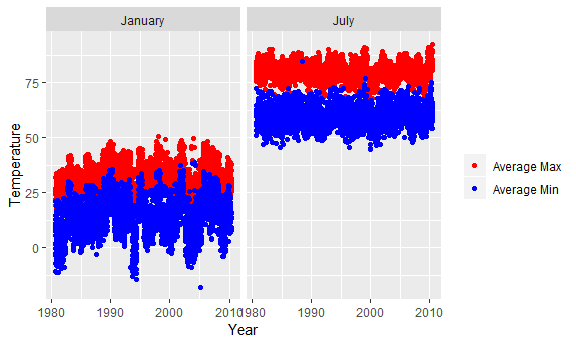
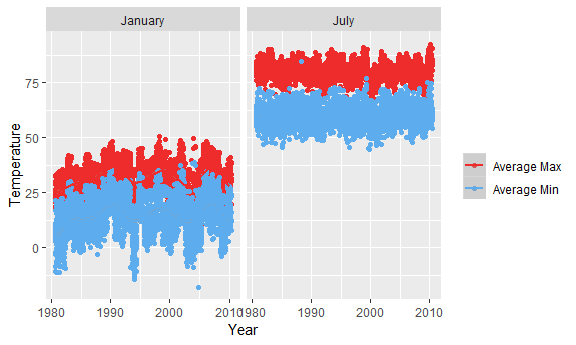
Problem 3 answered (partially)

diff --git a/p8105_hw3_at2710.md b/p8105_hw3_at2710.md
@@ -76,8 +76,6 @@ health_overall %>% filter(year %in% c(2002, 2006, 2010) &
 For each year and state, compute the average proportion in each response category (taking the average across locations in a state).
 
 ``` r
-# health_overall %>% group_by(year, state, response) %>% summarise(mean_proportion = mean(data_value, na.rm = TRUE)) %>% kable(digits = 2)
-
 health_overall %>% group_by(year, state, response) %>% summarise(mean_proportion = mean(data_value, na.rm = TRUE)) %>% spread(key = response, value = mean_proportion) %>% kable(digits = 2)
 ```
 
@@ -628,7 +626,7 @@ Problem 3
 
 This problem uses the NY NOAA data. DO NOT include this dataset in your local data directory; instead, load the data from the p8105.datasets package (it’s called ny\_noaa).
 
-**Answer**: This is the weather data, with 2595176 observations, which consists of daily information on precipition, snow and temperature from various locations. It's in a long format and hasn't been tidied since there are rows with no information on the weather. Thus we removed those observations with no data (72278 rows) and ended up with the final dataset with 2522898 observations. The data comes from 747 unique weather stations in NY from year 1981 to 2010. There are a lot of missing data observed in the dataset particularly the tmax and tmin (42%). Another variable with dubious input is snow given there is one record, dated 2005-06-15, that shows the amount of snow in negative (-0.511811).
+**Answer**: This is the weather data, with 2595176 observations, which consists of daily information on precipition, snow and temperature from various locations. It's in a long format and hasn't been tidied since there are rows with no information on the weather. Thus we removed those observations with no data (72278 rows) and ended up with the final dataset with 2522898 observations. The data comes from 747 unique weather stations in NY from year 1981 to 2010. There are a lot of missing data observed in the dataset particularly the tmax and tmin (42%). Another variable with dubious input is snow given there is one record, dated 2005-06-15, that shows the amount of snow in negative (-0.5).
 
 For snowfall, what are the most commonly observed values? Why?
 
@@ -638,15 +636,38 @@ Make a two-panel plot showing the average temperature in January and in July in 
 
 ``` r
 cleaned_dat %>% group_by(month, year, id) %>% summarise(tmax_avg = mean(tmax, na.rm = TRUE),
-  tmin_avg = mean(tmin, na.rm = TRUE)) %>% filter(month %in% c(1, 7)) %>% mutate(month_name = month.name[month]) %>% gather(key = max_min, value = temp, tmax_avg:tmin_avg) %>% ggplot(aes(x = year, y = temp, color = max_min)) + geom_jitter() +  facet_grid(. ~ month_name) + ylab('Temperature') + xlab('Year') + scale_color_manual(
+  tmin_avg = mean(tmin, na.rm = TRUE)) %>% filter(month %in% c(1, 7)) %>% mutate(month_name = month.name[month]) %>% gather(key = max_min, value = temp, tmax_avg:tmin_avg) %>% ggplot(aes(x = year, y = temp, color = max_min)) + geom_jitter() + geom_smooth() +  facet_grid(. ~ month_name) + ylab('Temperature') + xlab('Year') + scale_color_manual(
   name = "",
   labels = c("Average Max",
   "Average Min"),
-  values = c('tmax_avg' = 'red', 'tmin_avg' = 'blue')
+  values = c('tmax_avg' = 'firebrick2', 'tmin_avg' = 'steelblue2')
   )
 ```
 
+    ## `geom_smooth()` using method = 'gam' and formula 'y ~ s(x, bs = "cs")'
+
 <img src="p8105_hw3_at2710_files/figure-markdown_github/unnamed-chunk-9-1.png" width="90%" />
+
+``` r
+cleaned_dat %>% group_by(month, year, id) %>% summarise(tmax_avg = mean(tmax, na.rm = TRUE), tmin_avg = mean(tmin, na.rm = TRUE)) %>% filter(month == 1 & year == 1994) %>% arrange(tmin_avg) %>% ungroup()
+```
+
+    ## # A tibble: 222 x 5
+    ##    month  year id          tmax_avg tmin_avg
+    ##    <dbl> <dbl> <chr>          <dbl>    <dbl>
+    ##  1     1  1994 USC00303346     15.3   -14.4 
+    ##  2     1  1994 USW00014743     15.5   -13.3 
+    ##  3     1  1994 USC00308631     16.2   -11.8 
+    ##  4     1  1994 USC00308944     17.0   -11.5 
+    ##  5     1  1994 USC00306957     17.4   -11.2 
+    ##  6     1  1994 USC00308248     17.1   -10.6 
+    ##  7     1  1994 USC00300668     19.0   -10.4 
+    ##  8     1  1994 USC00304996     12.9   -10.2 
+    ##  9     1  1994 USC00306184     17.7    -9.01
+    ## 10     1  1994 USW00094725     13.7    -8.86
+    ## # ... with 212 more rows
+
+**Answer**:Clearly the average min and max temperature in July are higher than those in January. Also, there seems to be more variability, across stations, in average min/max temperature in January compared to July; there are a lot of overlap between some locations' average max and min temperature in January while there's a clear break of min/max temperature across locations in July. In January, there are some locations with extremely low average min temperature. In the year 2005, one location was recorded with average minimum temperature of -18.04 degrees. We also noticed that the average temperatures are lower than usual in January 1994.
 
 Make a two-panel plot showing (i) tmax vs tmin for the full dataset (note that a scatterplot may not be the best option); and (ii) make a plot showing the distribution of snowfall values greater than 0 and less than 100 separately by year.
 
